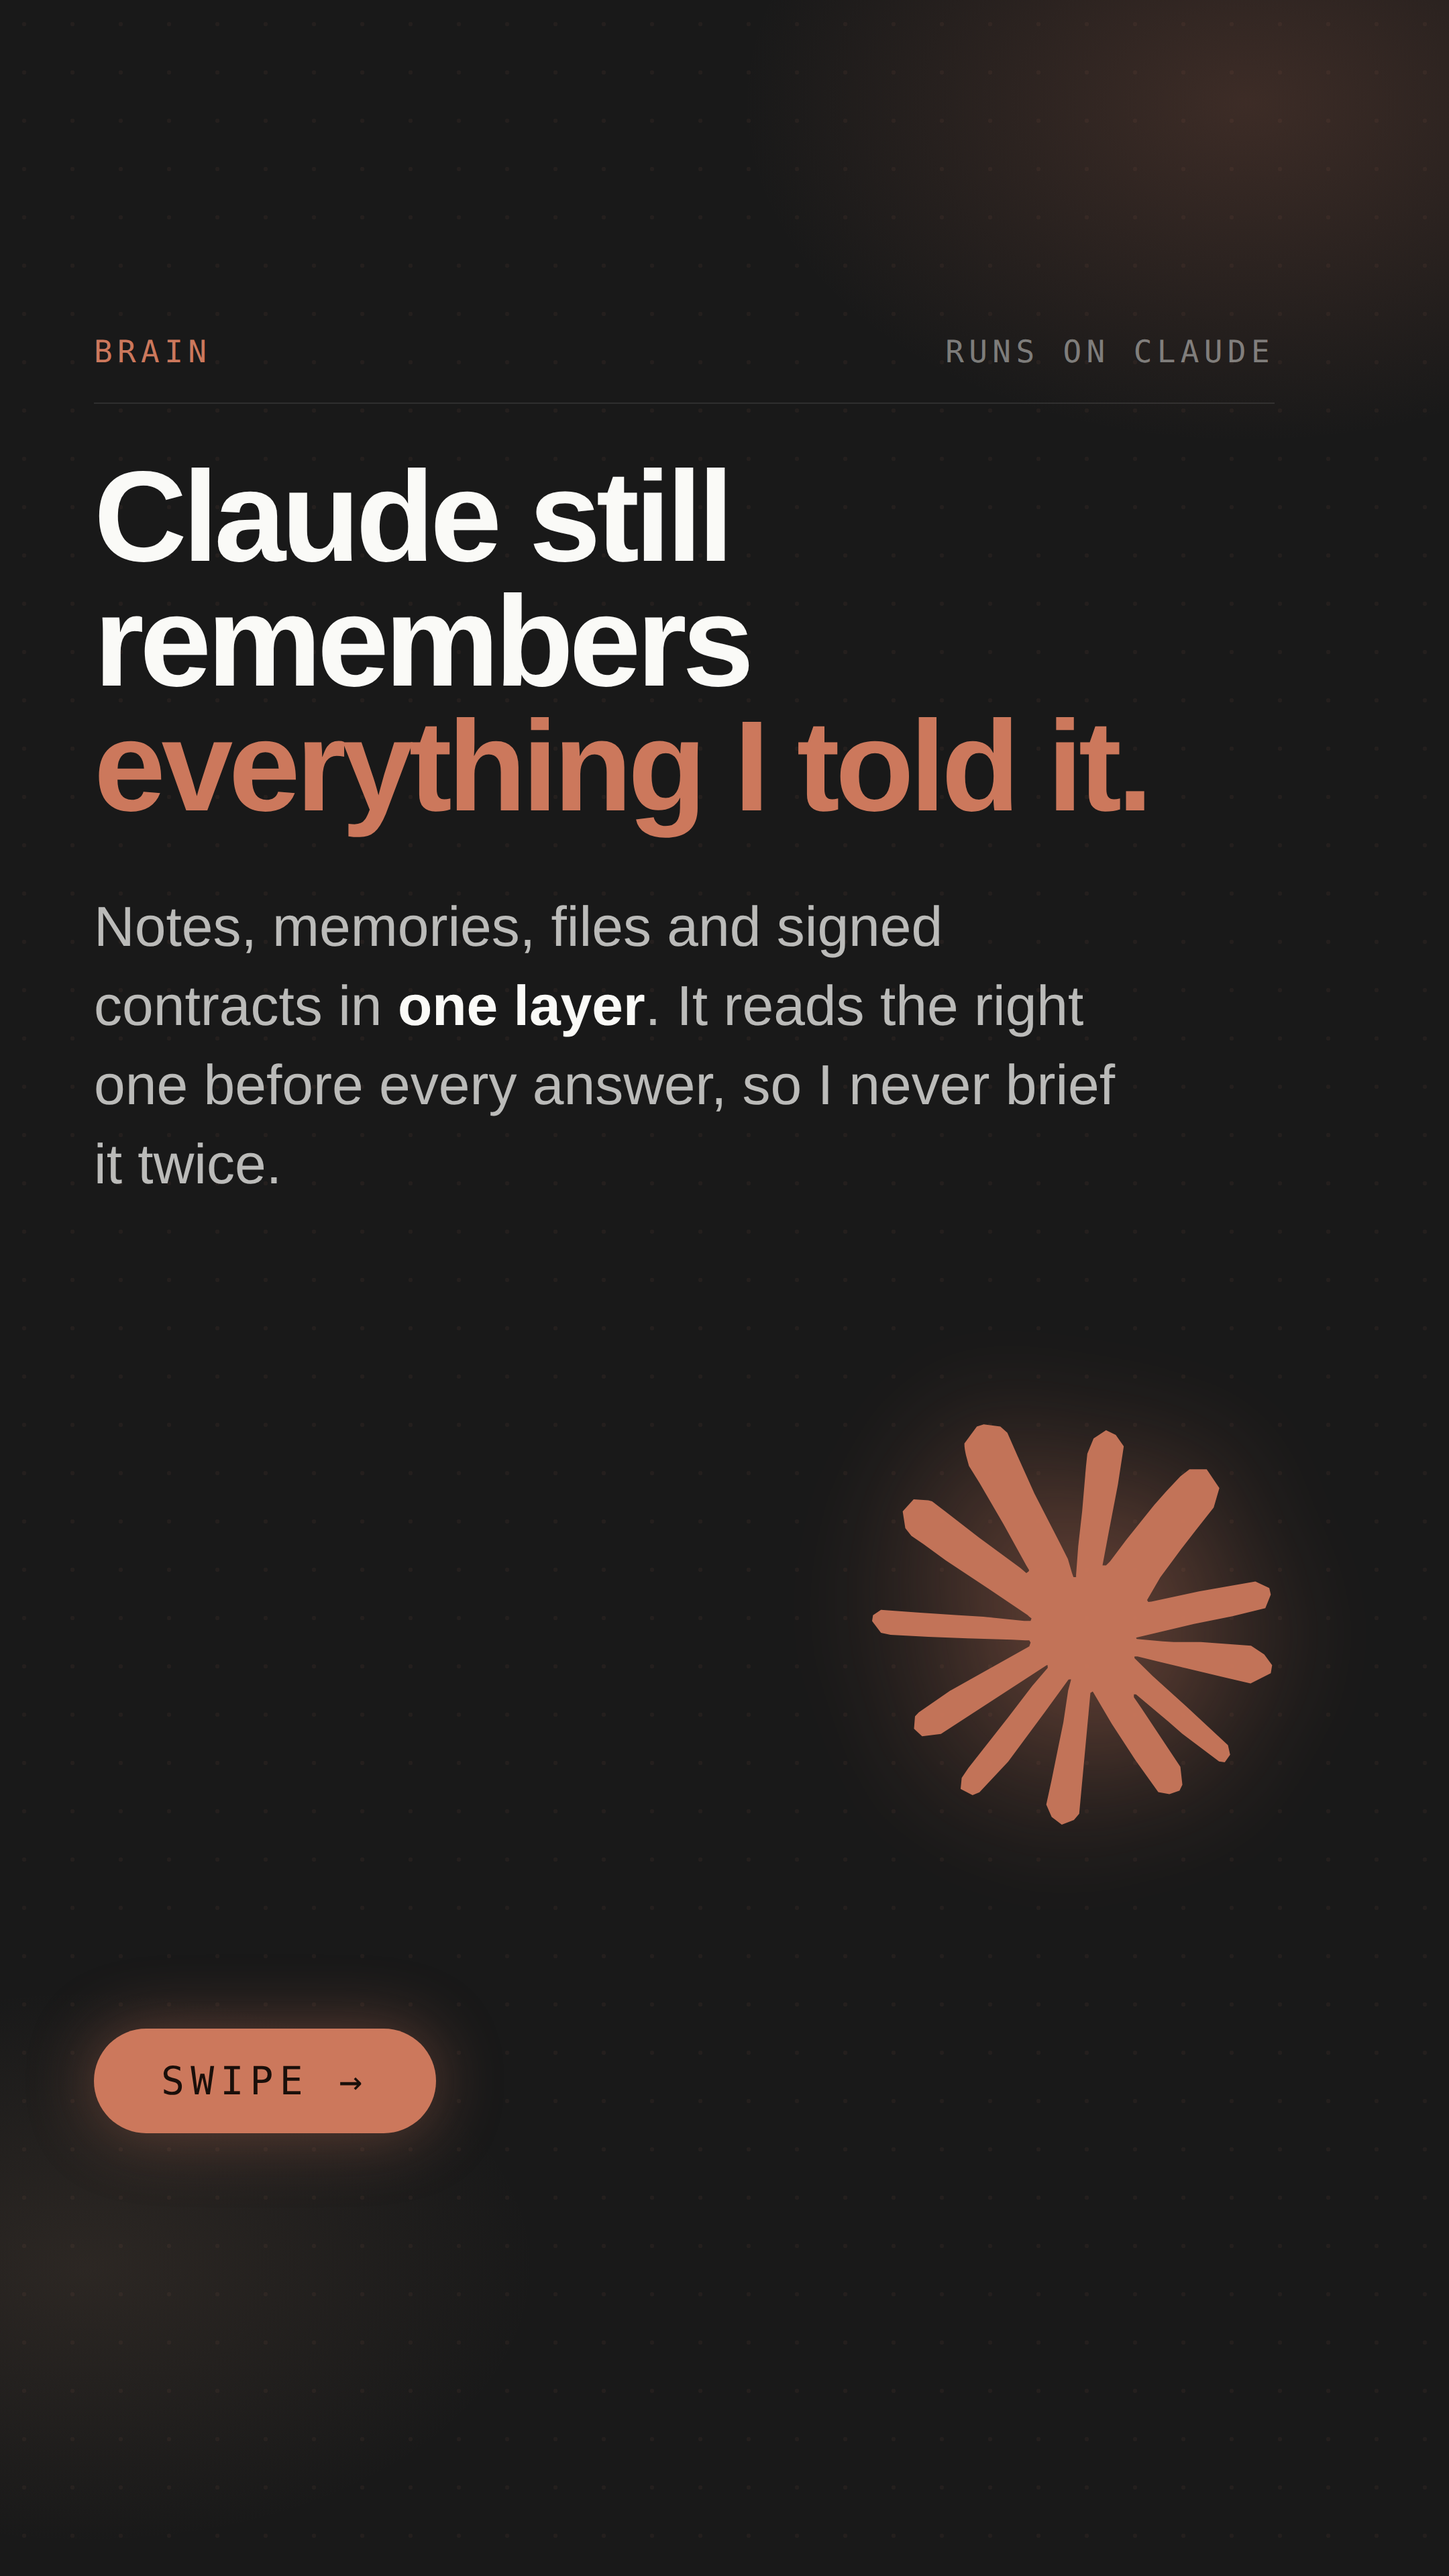
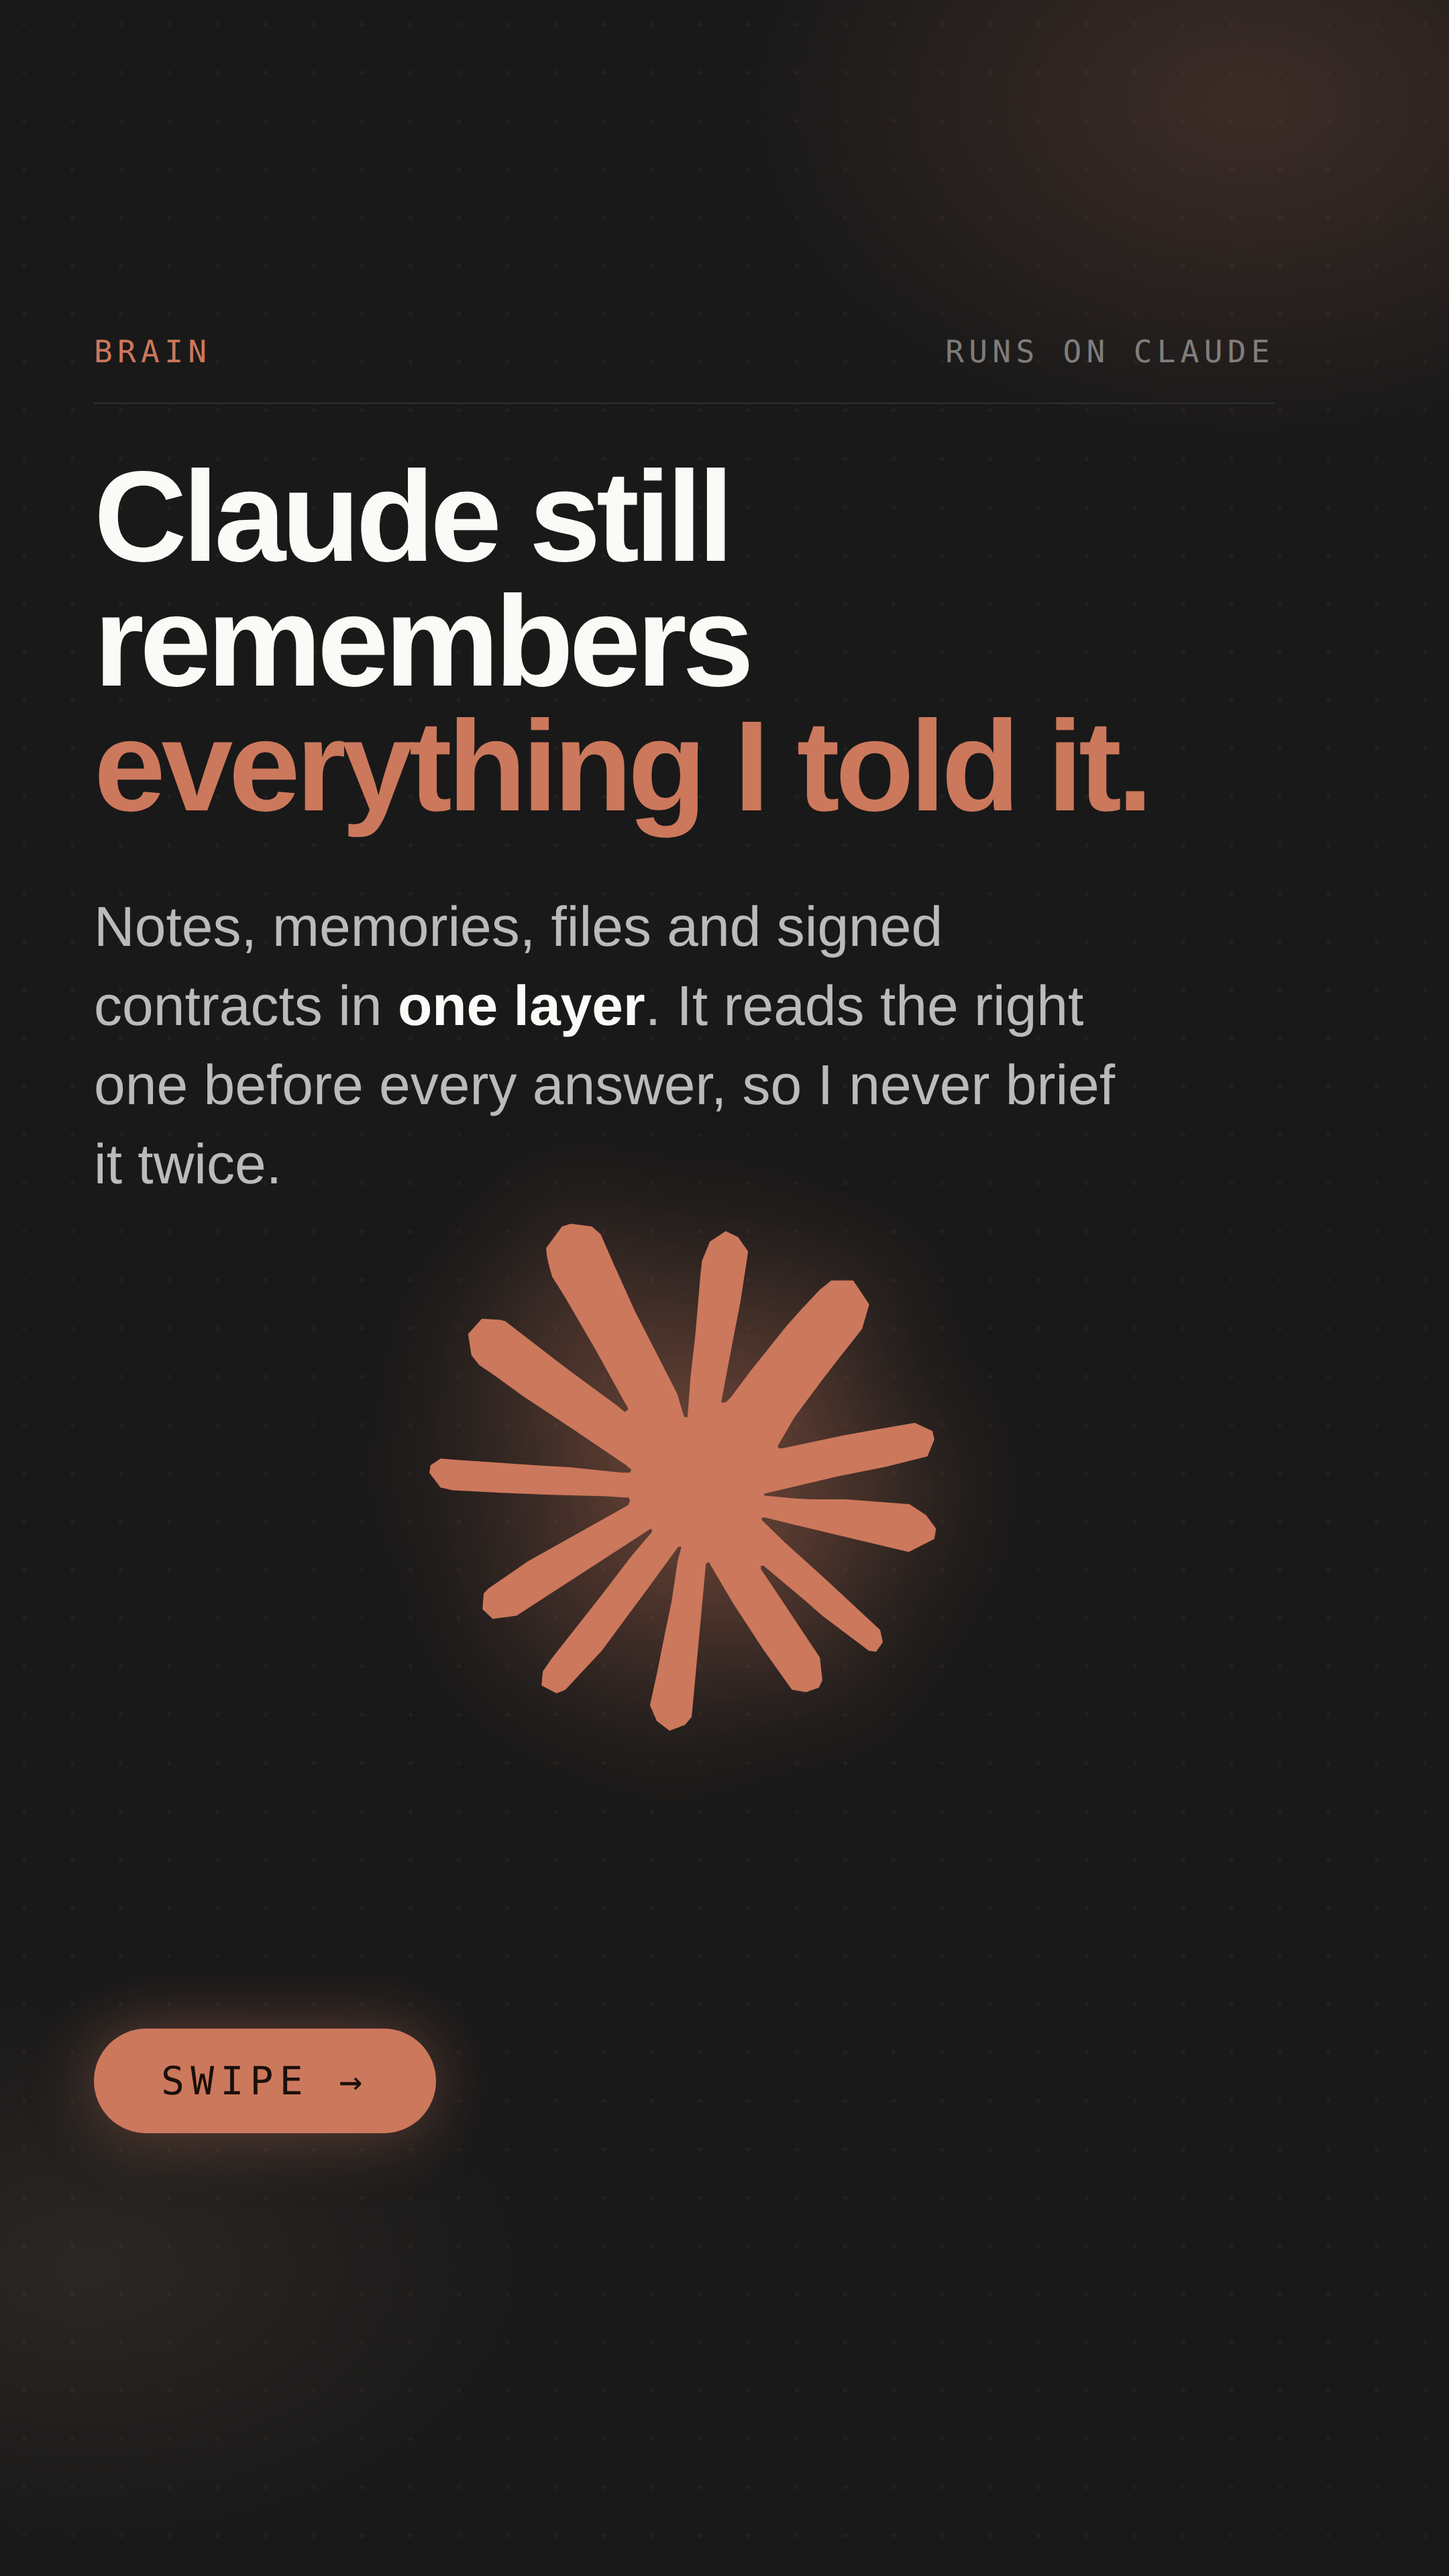
docs-06 Brain TikTok: center the Claude glyph on the cover + add caption
Cover: moved the Claude sunburst from the lower-right to centered in the middle of
the first slide. Added the TikTok caption (keyword BRAIN) in the 15.6 social
format: one beat per paragraph, the fixed five-tag set.

https://claude.ai/code/session_018fS7xMwDiJUxoNS3zo3BKw

Changed region(s): [[0.2792, 0.4688, 0.8685, 0.7188]]

diff --git a/content/docs-06-brain-tiktok-carousel.html b/content/docs-06-brain-tiktok-carousel.html
@@ -118,6 +118,7 @@ body{background:#0d0d0d;display:flex;flex-direction:column;align-items:center;ga
 .spr .t{font-size:33px;font-weight:600;line-height:1.3;}
 .sp.bad .t{color:var(--ink46);}.sp.good .t{color:var(--ivory);}
 
+.claude{top:auto!important;bottom:300px!important;left:50%!important;right:auto!important;transform:translateX(-50%);width:380px;height:380px;opacity:1;}
 .surfstack{flex:1;display:flex;flex-direction:column;gap:26px;min-height:0;}
 .surf{flex:1;display:flex;flex-direction:column;min-height:0;}
 .mk-eyebrow{font-family:'DM Mono',monospace;font-size:24px;font-weight:600;letter-spacing:.12em;text-transform:uppercase;color:var(--c);margin-bottom:13px;display:flex;align-items:center;gap:14px;}

diff --git a/content/docs-06-brain-tiktok-caption.md b/content/docs-06-brain-tiktok-caption.md
@@ -1,0 +1,45 @@
+# docs-06 Brain - TikTok caption
+
+For: docs-06-brain-tiktok-infographic + docs-06-brain-tiktok-carousel (8 slides)
+Keyword: BRAIN
+Format: social caption format per CLAUDE.md 15.6 (one beat per paragraph; exactly 5 hashtags).
+
+---
+
+## PRIMARY
+
+I never brief Claude on my business anymore.
+
+Now it already knows.
+
+Everything worth keeping lives in one memory layer it reads before every answer.
+
+Notes I write by hand, memories Claude saves itself after a run, files I upload once, and the contracts I signed. It writes a memory every five messages after the tenth, and before each turn it pulls the right ones back by meaning, by tag and by recency, then stitches them into the prompt as context. I never remind it who the prospect is, what my pricing is, or how I write.
+
+This is Brain on the Ultron platform, long-term memory for your AI.
+
+Comment BRAIN and I will send you the full Brain memory map.
+
+#claude #ai #founder #startup #buildinpublic
+
+---
+
+## ALT A (short)
+
+Claude stopped asking who my customers are.
+
+It reads one memory layer before every answer: the notes I write, the memories it saves itself, the files I upload, and the contracts I signed.
+
+Comment BRAIN for the full memory map.
+
+#claude #ai #founder #startup #buildinpublic
+
+---
+
+## ALT B (shortest)
+
+One memory layer. Claude reads it before every answer, so I never brief it twice.
+
+Comment BRAIN for the map.
+
+#claude #ai #founder #startup #buildinpublic
